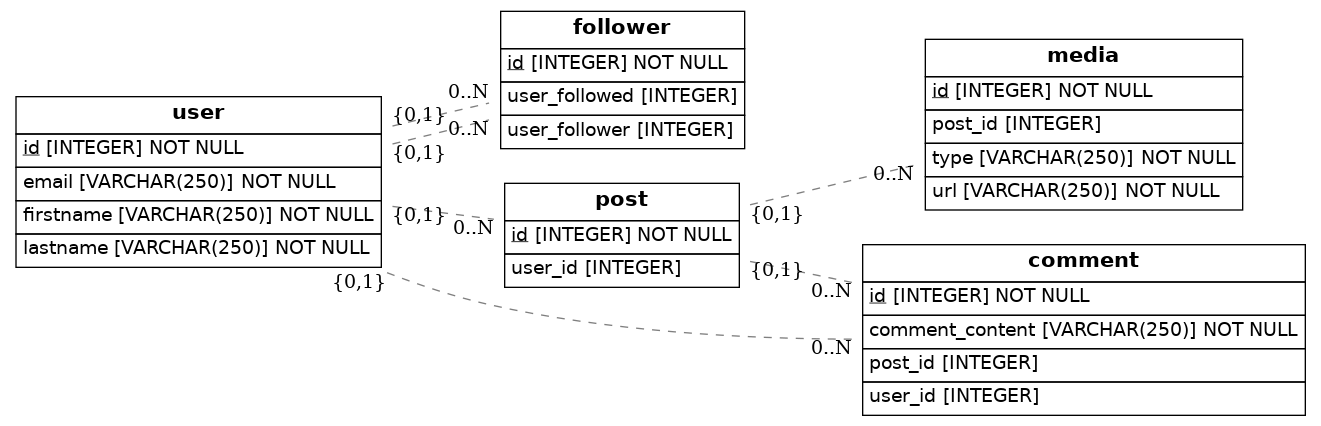
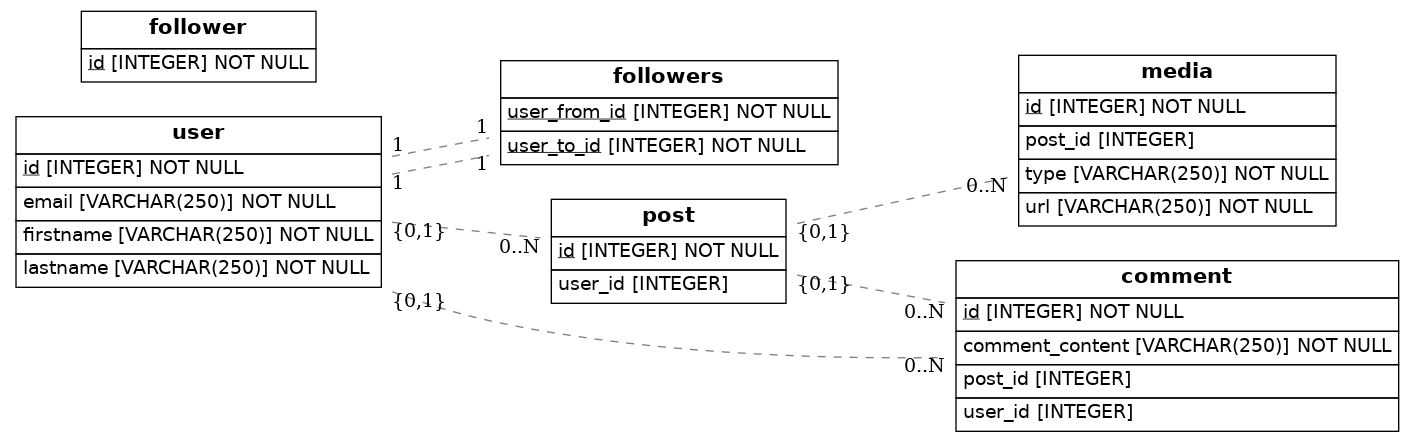
many to many

diff --git a/src/models.py b/src/models.py
@@ -1,11 +1,17 @@
 import os
 import sys
-from sqlalchemy import Column, ForeignKey, Integer, String
-from sqlalchemy.orm import relationship, declarative_base
+from sqlalchemy import Table, Column, ForeignKey, Integer, String
+from sqlalchemy.orm import relationship, declarative_base, backref
 from sqlalchemy import create_engine
 from eralchemy2 import render_er
 
 Base = declarative_base()
+
+followers = Table('followers',
+    Base.metadata,
+    Column('user_from_id', Integer, ForeignKey('user.id'), primary_key=True),
+    Column('user_to_id', Integer, ForeignKey('user.id'), primary_key=True)
+)
 
 class User(Base):
     __tablename__ = 'user'
@@ -15,16 +21,16 @@ class User(Base):
     firstname = Column(String(250), nullable=False)
     lastname = Column(String(250), nullable=False)
     email = Column(String(250), unique=True, nullable=False)
+    followers = relationship('Follower', secondary=followers, lazy='subquery',
+        backref=backref('user', lazy=True))
 
 class Follower(Base):
     __tablename__ = 'follower'
     # Here we define columns for the table person
     # Notice that each column is also a normal Python instance attribute.
     id = Column(Integer, primary_key=True)
-    user_follower = Column(Integer, ForeignKey('user.id'))
-    user = relationship(User)
-    user_followed = Column(Integer, ForeignKey('user.id'))
-    user = relationship(User)
+    # user_follower = Column(Integer, ForeignKey('user.id'))
+    # user = relationship(User)
 
 class Post(Base):
     __tablename__ = 'post'
